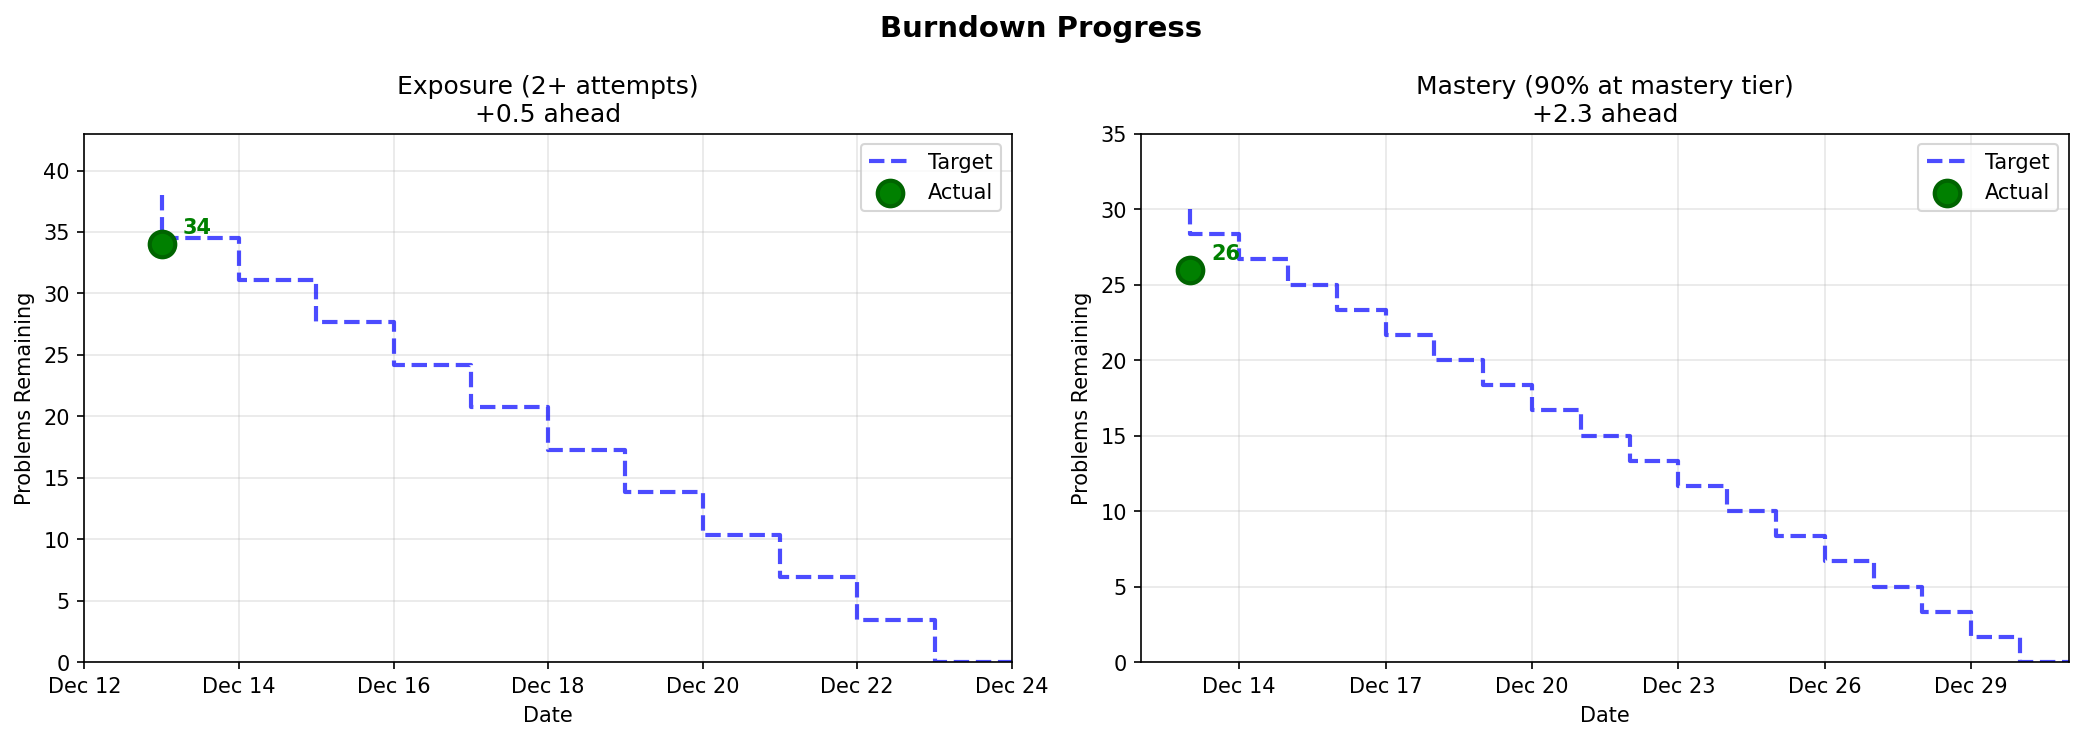
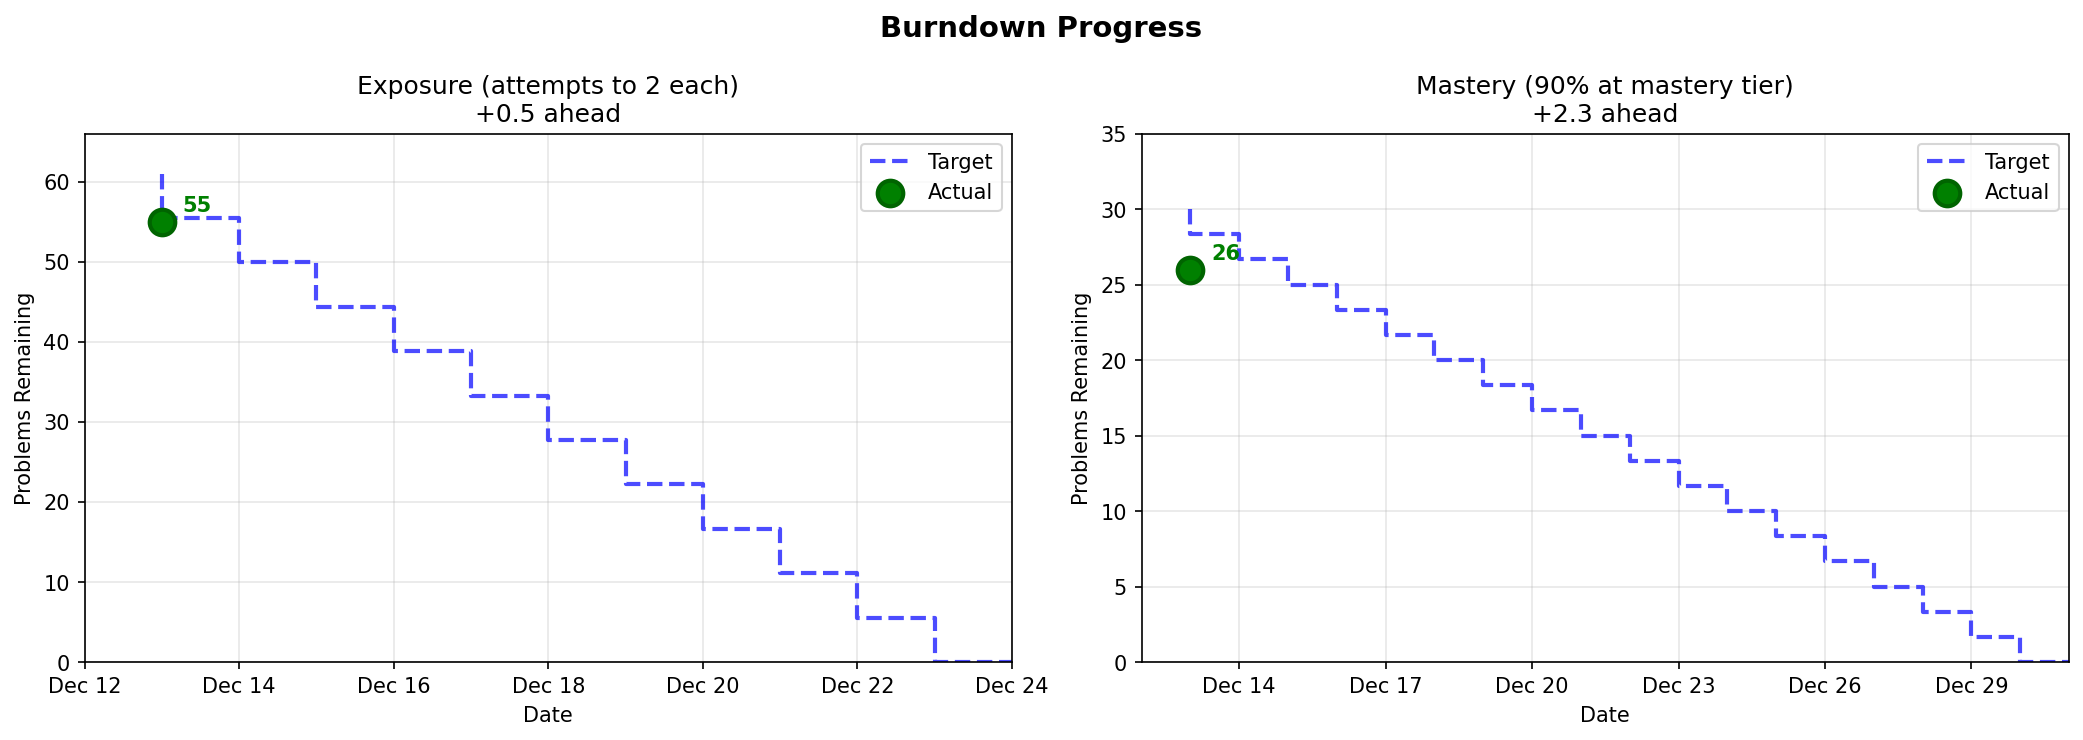
Fix exposure burndown: count attempts remaining to 2, not problems

diff --git a/scripts/burndown.py b/scripts/burndown.py
@@ -2,7 +2,7 @@
 """Generate burndown chart for EPI problem progress tracking.
 
 Two burndowns:
-1. Exposure: Problems with < 2 attempts -> target 0 by Dec 24
+1. Exposure: Total attempts remaining to reach 2 per problem (capped at 2) -> target 0 by Dec 24
 2. Mastery: 90% of P0-P2 at mastery tier -> target by Dec 31
 """
 
@@ -47,7 +47,7 @@ def calculate_burndown_stats(problems):
     """Calculate burndown statistics for P0-P2 problems."""
     stats = {
         'total_problems': 0,
-        'needs_exposure': 0,
+        'needs_exposure': 0,  # Total attempts remaining to reach 2 per problem
         'mastered': 0,
         'problems_detail': [],
     }
@@ -64,8 +64,10 @@ def calculate_burndown_stats(problems):
         stats['total_problems'] += 1
         analysis = analyze_problem_for_burndown(problem_data)
 
-        if analysis['attempts'] < 2:
-            stats['needs_exposure'] += 1
+        # Count attempts remaining to reach 2 (capped at 2 per problem)
+        # 0 attempts -> +2, 1 attempt -> +1, 2+ attempts -> +0
+        attempts_remaining = max(0, 2 - analysis['attempts'])
+        stats['needs_exposure'] += attempts_remaining
 
         if analysis['is_mastered']:
             stats['mastered'] += 1
@@ -83,7 +85,10 @@ def calculate_burndown_stats(problems):
     stats['needs_mastery'] = max(0, stats['mastery_target'] - stats['mastered'])
 
     # Starting values (as of START_DATE)
-    stats['start_exposure'] = 38  # Fixed: what we had on Dec 13
+    # Exposure: attempts remaining to reach 2 per problem
+    # On Dec 13 (commit b86a6fa): 22 had 0 attempts, 17 had 1 attempt, 20 had 2+
+    # So: (22*2) + (17*1) + (20*0) = 44 + 17 + 0 = 61 attempts remaining
+    stats['start_exposure'] = 61  # Fixed: attempts remaining on Dec 13
     stats['start_mastery'] = 30   # Fixed: what we needed on Dec 13
 
     return stats
@@ -195,7 +200,7 @@ def generate_burndown_chart(stats, output_path):
     exp_ahead = calculate_ahead_behind(exp_current, exp_start, START_DATE, exp_target_date)
     exp_status = f"+{exp_ahead:.1f} ahead" if exp_ahead >= 0 else f"{exp_ahead:.1f} behind"
 
-    ax1.set_title(f'Exposure (2+ attempts)\n{exp_status}', fontsize=12)
+    ax1.set_title(f'Exposure (attempts to 2 each)\n{exp_status}', fontsize=12)
     ax1.set_xlabel('Date')
     ax1.set_ylabel('Problems Remaining')
     ax1.set_ylim(bottom=0, top=exp_start + 5)

diff --git a/README.md b/README.md
@@ -8,9 +8,9 @@ My journey through Elements of Programming Interviews in Python.
 
 | Metric | Exposure | Mastery |
 |--------|----------|---------|
-| Remaining | 34 | 26 |
+| Remaining | 55 | 26 |
 | Target Date | Dec 24 (11d) | Dec 31 (18d) |
-| Rate Needed | 3.1/day | 1.4/day |
+| Rate Needed | 5.0/day | 1.4/day |
 | Status | **+0.5 ahead** | **+2.3 ahead** |
 
 ## Python Syntax Flashcards
